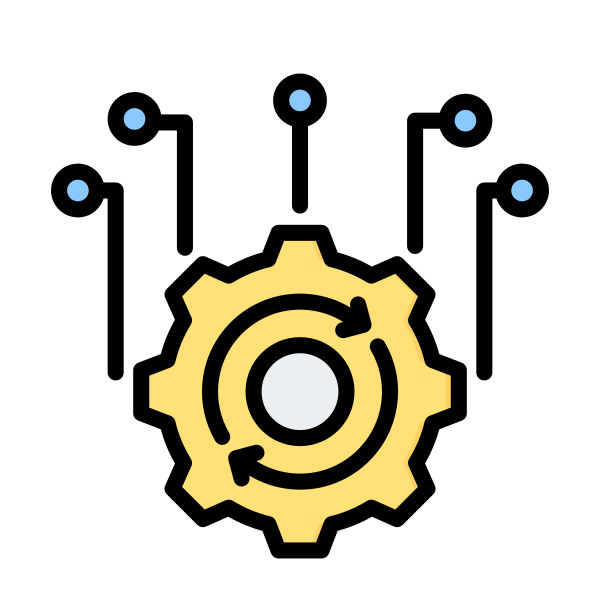
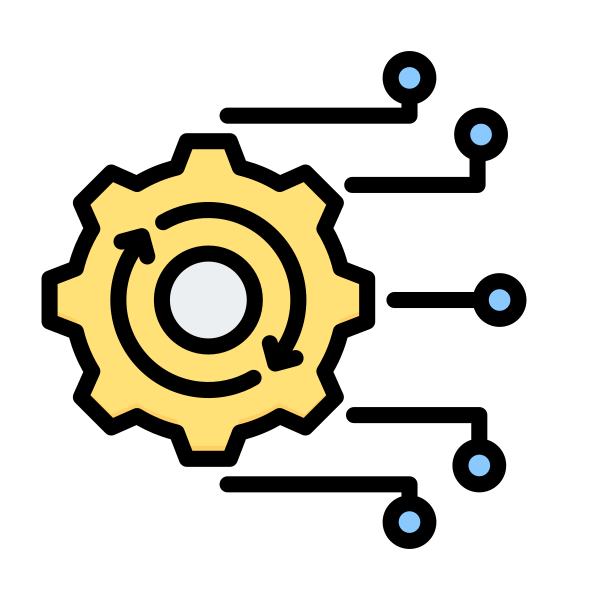
update repositories.yml

diff --git a/_pages/repositories.md b/_pages/repositories.md
@@ -4,7 +4,7 @@ permalink: /repositories/
 title: Repositories
 description: Edit the `_data/repositories.yml` and change the `github_users` and `github_repos` lists to include your own GitHub profile and repositories.
 nav: true
-nav_order: 4
+nav_order: 5
 ---
 
 {% if site.data.repositories.github_users %}

diff --git a/_pages/publications.md b/_pages/publications.md
@@ -4,7 +4,7 @@ permalink: /publications/
 title: Publications
 description: publications by categories in reversed chronological order. generated by jekyll-scholar.
 nav: true
-nav_order: 2
+nav_order: 4
 ---
 
 <!-- _pages/publications.md -->

diff --git a/_pages/profiles.md b/_pages/profiles.md
@@ -4,7 +4,7 @@ permalink: /people/
 title: People
 description: members of the lab or group
 nav: true
-nav_order: 7
+nav_order: 3
 
 profiles:
   # if you want to include more than one profile, just replicate the following block

diff --git a/_pages/cv.md b/_pages/cv.md
@@ -2,7 +2,7 @@
 layout: cv
 permalink: /cv/
 title: CV
-nav: true
+nav: false
 nav_order: 5
 cv_pdf: /assets/pdf/example_pdf.pdf # you can also use external links here
 cv_format: rendercv # options: rendercv, jsonresume

diff --git a/_pages/projects.md b/_pages/projects.md
@@ -4,7 +4,7 @@ title: Research
 permalink: /projects/
 description: A growing collection of your cool projects.
 nav: true
-nav_order: 3
+nav_order: 2
 display_categories: [work, fun]
 horizontal: false
 ---

diff --git a/_pages/teaching.md b/_pages/teaching.md
@@ -3,7 +3,7 @@ layout: page
 permalink: /teaching/
 title: Teaching
 description: Course materials, schedules, and resources for classes taught.
-nav: true
+nav: false
 nav_order: 6
 calendar: true
 ---

diff --git a/_pages/blog.md b/_pages/blog.md
@@ -2,7 +2,7 @@
 layout: default
 permalink: /blog/
 title: Blog
-nav: true
+nav: false
 nav_order: 1
 pagination:
   enabled: true
